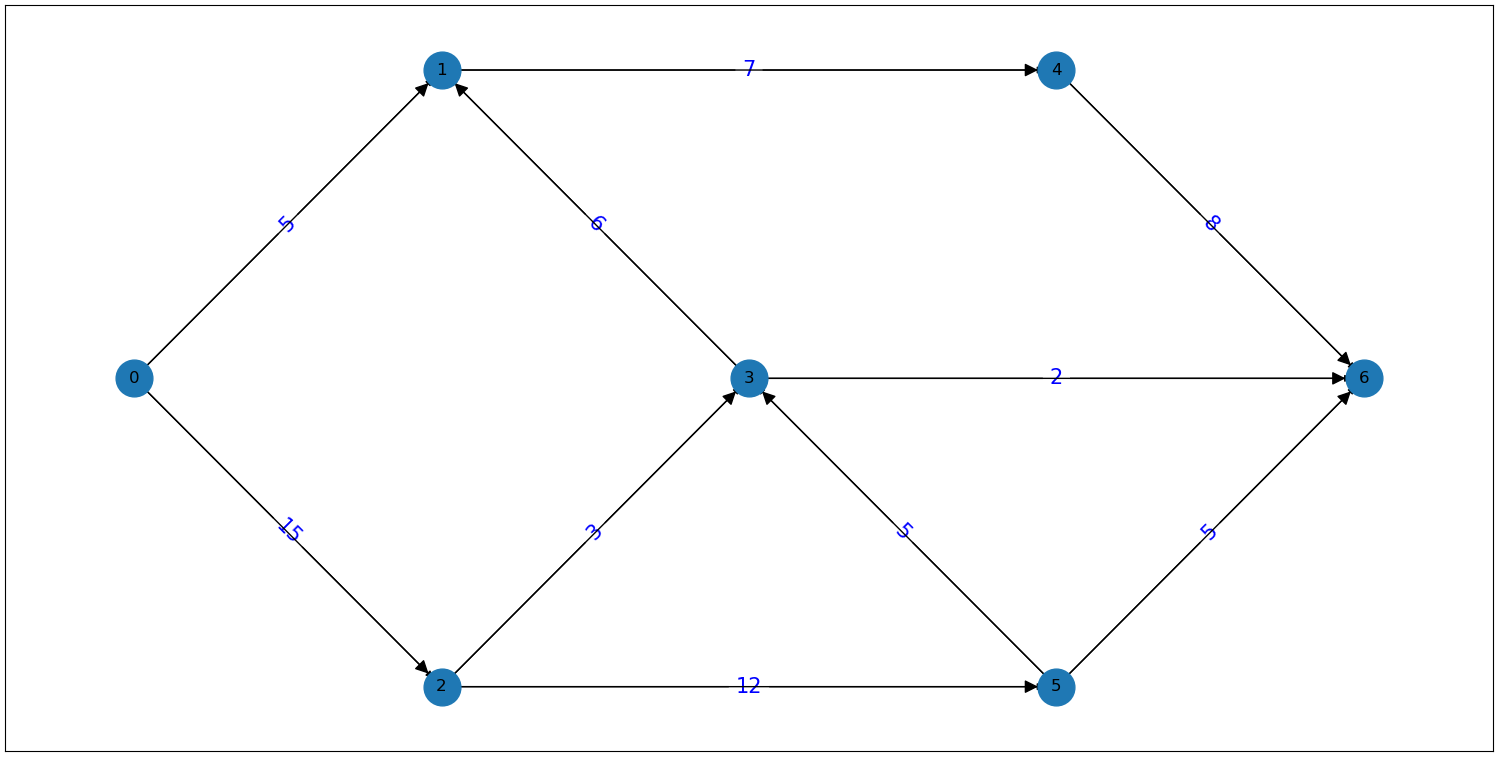
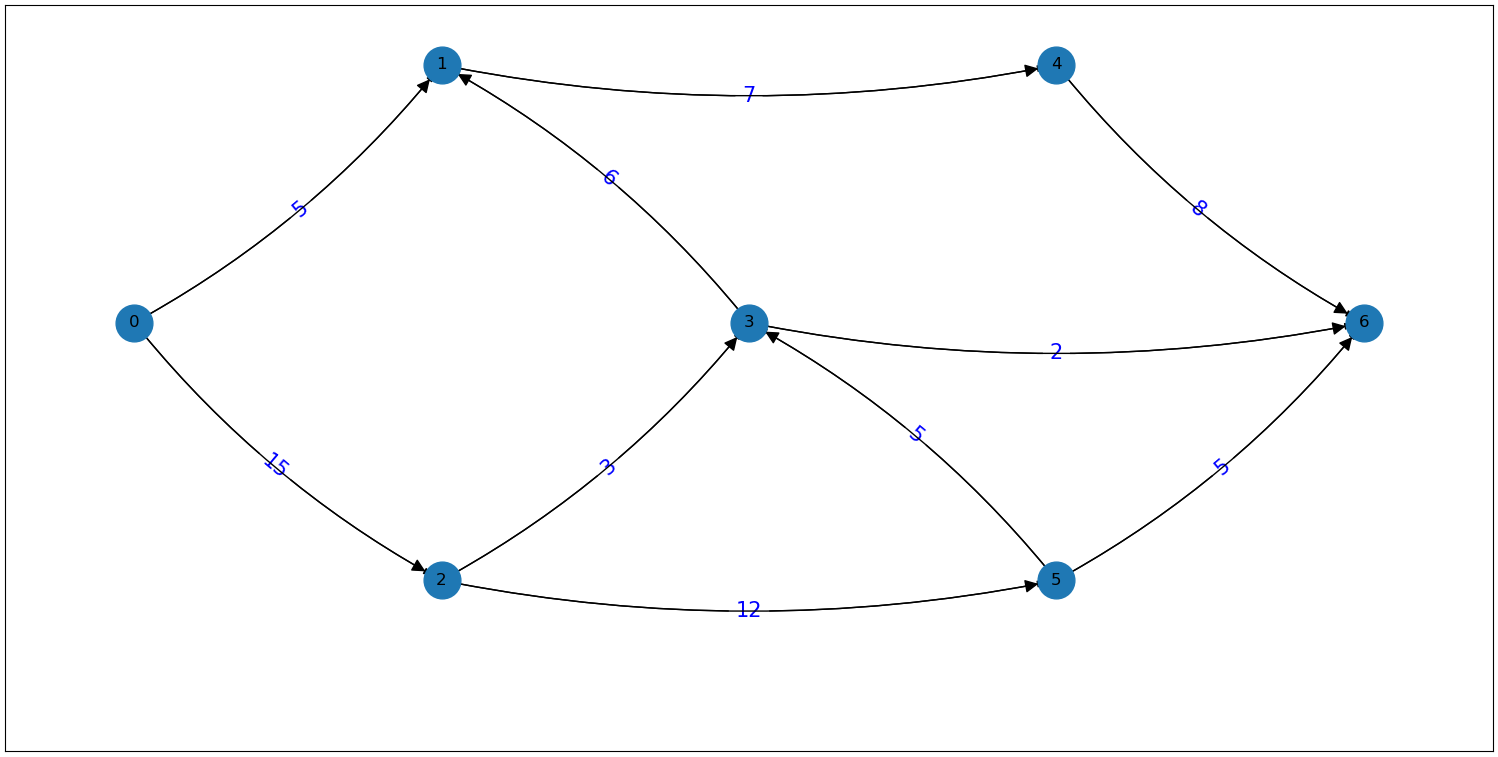
Powrpointing

diff --git a/main.py b/main.py
@@ -43,15 +43,15 @@ def show_example(adjacency_matrix, path = [], w = 0):
     N = len(adjacency_matrix)
     mylabels = {i:i for i in range (N)}
     path_edges = {(path[i-1],path[i]) for i in range(1,len(path))}
-    couleurs = ['k' if (u,v) not in path_edges and (v,u) not in path_edges else "red" for u,v in G.edges()]
+    couleurs = ['k' if (u,v) not in path_edges else "red" for u,v in G.edges()]
     for u,v in path_edges:
-        G[u][v]['weight'] = str(w)/G[u][v]['weight']
+        G[u][v]['weight'] = str(w)+"/"+str(G[u][v]['weight'])
     poids = {(u,v): str (G[u][v]['weight']) for u,v in G.edges()}
 
-    nx.draw_networkx_edges(G,pos=ly)
-    nx.draw_networkx_edge_labels(G,pos = ly, edge_labels=poids, font_color='b', font_size=15)
+    nx.draw_networkx_edges(G,pos=ly, connectionstyle='arc3, rad = 0.1')
+    nx.draw_networkx_edge_labels(G,pos = ly, edge_labels=poids, font_color='b', font_size=15,connectionstyle='arc3, rad = 0.1')
     nx.draw_networkx(G, node_size=700, labels=mylabels, with_labels=True, 
-                     pos=ly, edge_color = couleurs, arrowsize = 20 )
+                     pos=ly, edge_color = couleurs, arrowsize = 20,connectionstyle='arc3, rad = 0.1' )
     plt.show()  
 
 
@@ -137,10 +137,11 @@ class graph:
         if v == 0:
             self.matrix[x][y] = v
             self.adj[x].remove(y)
-        if v>0:
-            self.matrix[x][y] = v
         else:
-            self.matrix[y][x] = -v
+            if v>0:
+                self.matrix[x][y] = v
+            else:
+                self.matrix[y][x] = -v
             
     def edges(self,x):
         return [(y, self.weight(x,y)) for y in self.adj[x]]
@@ -237,8 +238,10 @@ def update_ag(ag,ap,dphi):
         ag.update_edge(y, x, ag.weight(y,x)+dphi)
     
         
-def init_flow(g):
-    return graph(g.size)
+def init_flow(ag):
+    f = graph(ag.size)
+    f.s = ag.s
+    return f
 
 def update_flow(f,ap,dphi):
     n = len(ap)
@@ -293,13 +296,11 @@ def edmond_karp(g, sinks):
     ag = init_ag(g,sinks)
     (found,ap,dphi) = find_path(ag)
     f = init_flow(ag)
-    show_example(np.matrix(f.matrix))
     while found:
-        update_ag(ag,ap,dphi)
         update_flow(f,ap,dphi)
+        update_ag(ag,ap,dphi)
+
         (found,ap,dphi) = find_path(ag)
-        show_example(np.matrix(ag.matrix,ap,dphi))
-        show_example(np.matrix(f.matrix))
     return f 
 
 
@@ -330,16 +331,23 @@ def main():
     global rho
     rho = {v:k for (k,v) in sigma.items()}    
 
+    """
     p,w = widest_path(g,sigma["s"],sigma[fin])
     print(f"The widest path between s and {fin}")
     print([rho[e] for e in p])
-
-    """
+²   """
+    
     f = edmond_karp(g,[sigma[1001],sigma[1000], sigma[1002]])
     
     #show_graph_with_labels(np.matrix(g.matrix),rho)
-    show_graph_with_labels(np.matrix(g.matrix),rho, p,w)
-    print("\nw:",w)
+    #show_graph_with_labels(np.matrix(g.matrix),rho, p,w)
+    s = 0
+    print(f.s,sigma[s])
+    print(f.matrix[f.s])
+    for i in range(f.size-1):
+        s += f.matrix[f.s][i]
+
+    print("\ns:",s)
     #show_graph_with_labels(np.matrix([r[0:-1] for r in f.matrix][0:-1]),rho)
     """
     ex = graph(7)

diff --git a/pres.md b/pres.md
@@ -182,11 +182,10 @@ Chemin le plus large entre le stade et le RER D, largeur 4
 
 ### Proposition de solution
 Largeur théorique : $3+4+7 = 14$
-Débit théorique : À compléter
-
-Largeur réelle: 10
-Débit réel : À compléter
-
+Débit théorique : $28 pers/s$
+Largeur réelle: $10$
+Débit réel : $20 pers/s$
+Temps d'évacuation : 1h08
 
 ---
 # 4. Une methode optimale :  Le flot maximal
@@ -232,7 +231,7 @@ Le graphe des augmentation.
 ### Chemin augmentant
 $P = (p,d\phi)\in \mathbb{P}(E) * \mathbb{N}$
 
-$p$ : ensemble d'arêtes débutant à $s$ et finissant en $t$
+$p$ : ensemble d'arcs débutant à $s$ et finissant en $t$
 
 $d\phi$ : variation du flot
 
@@ -273,9 +272,124 @@ Trouver des chemins augmentants dans $G_a$ afin d'augmenter le flux.
 </div>
 
 ---
-### Exemple
-![example graph](images/example_graph.png)
+## Algorithme d'Edmond-Karp
+### Recherche du Chemin augmentant
+Parcours en largeur : plus court chemin en nombre d'arc
+
+### Arc avant 
+Arc de $G_r$ dans le sens initial, le sens du flot
+
+
+### Arc arrière
+Arc de $G_r$ de sens inverse au flot, de capacité égale au flot.
+
+---
+
+### Mise à jour de $\varphi$
+$\forall e=(u,v) \in p$ 
+si e est un  arc avant:
+$\phi(u,v) \leftarrow \phi(u,v)+ d\phi$
+
+si e=(v,u) est un arc arrière :
+$\phi(u,v) \leftarrow \phi(u,v)-d\phi$
+
+### Mise à jour de $G_r$
+$\forall e =(u,v) \in p, C_r(u,v) \leftarrow C_r(u,v) - d\phi$
+$\forall e =(u,v) \in p, C_r(v,u) \leftarrow C_r(v,u) + d\phi$
+
+
 
 ---
 ### Exemple
+Graphe de Capacité, graphe d'augmentation
+![ex_graph](images/example_graph.png)
+
+---
+### Exemple
+Graphe de flot
 ![ex_f0](images/ex_f0.png)
+
+---
+### Exemple
+Graphe d'augmentation, chemin augmentant
+![alt text](images/ex_agp0.png)
+
+---
+### Exemple
+Graphe de flot
+![ex_f1](images/ex_f1.png)
+
+---
+### Exemple
+Graphe d'augmentation
+![ag1](images/ex_ag1.png)
+
+---
+### Exemple
+Graphe d'augmentation, chemin augmentant
+![agp1](images/ex_agp1.png)
+
+---
+### Exemple
+Graphe de flot
+![ex_f2](images/ex_f2.png)
+
+---
+### Exemple
+Graphe d'augmentation
+![ag2](images/ex_ag2.png)
+
+---
+### Exemple
+Graphe d'augmentation, chemin augmentant
+![agp2](images/ex_agp2.png)
+
+---
+### Exemple
+Graphe de flot
+![ex_f3](images/ex_f3.png)
+
+---
+### Exemple
+Graphe d'augmentation
+![ag3](images/ex_ag3.png)
+
+---
+### Exemple
+Graphe d'augmentation, chemin augmentant
+![agp3](images/ex_agp3.png)
+
+---
+### Exemple
+Graphe de flot
+![ex_f4](images/ex_f4.png)
+
+---
+### Exemple
+Graphe d'augmentation
+![ag4](images/ex_ag4.png)
+
+---
+### Exemple
+Graphe d'augmentation, chemin augmentant
+![agp4](images/ex_agp4.png)
+
+---
+### Exemple
+Graphe de flot
+![ex_f5](images/ex_f5.png)
+
+---
+### Exemple
+Graphe d'augmentation final
+![ag5](images/ex_ag5.png)
+
+---
+### Exemple
+Graphe de flot final
+![ex_f5(final)](images/ex_f5.png)
+
+---
+### Résultats expérimentaux
+Largeur : 23, débit : 46 pers/s, temps :30min
+![final flow](images/final_flow.png)

diff --git a/README.md b/README.md
@@ -1,6 +1,6 @@
 TIPE 
 (French CPGE project)
-(CPGE: Classe Préparatoire aux Grandes Ecoles: 2 intensives years to prepare french engineering schools entrance exams)
+(CPGE: Classe Préparatoire aux Grandes Ecoles: 2 intensives years to prepare french engineering and research schools entrance exams)
 
 PYTHON
 
@@ -18,14 +18,15 @@ Publié:
 - implementation definitive (hm hm) de Dijkstra
 - implémentation partielle de Edmond-karp
 - La fin d'Edmond-Karp
+- Peut-etre une GUI(ou au moins un truc pour afficher les resultats)
+
 
 À venir:
 - résultats experimentaux
-- Peut-etre une GUI(ou au moins un truc pour afficher les resultats)
-
+- Revoir l'exemple (que ca emprunte un arc arrière)
 In english:
 
-/!\ The code might seem heavy or unefficient in some aspect but you should keep in mind that the code mainly needs to be easyily manipulated and read (as it should be printed for exam assessors).
+/!\ The code might seem heavy or unefficient in some ways but you should keep in mind that the code mainly needs to be easyily manipulated and read (as it should be printed for exam assessors).
 
 This project present a modified implementation of Dijkstra's algorithm to find a widest path in a flow network, as well as an implementation of Edmond-Karp's algorithmof max flow. 
 
@@ -36,8 +37,9 @@ Published:
 - the flow network
 - ultimate (hm hm) implementation of Dijkstra 
 - finishing edmond karp
+- Maybe a GUI (or at least a graph factory)
 
 Incomming:
 - the results
-- Maybe a GUI (or at least a graph factory)
+- choose an other example to explain the use of back edges
 
